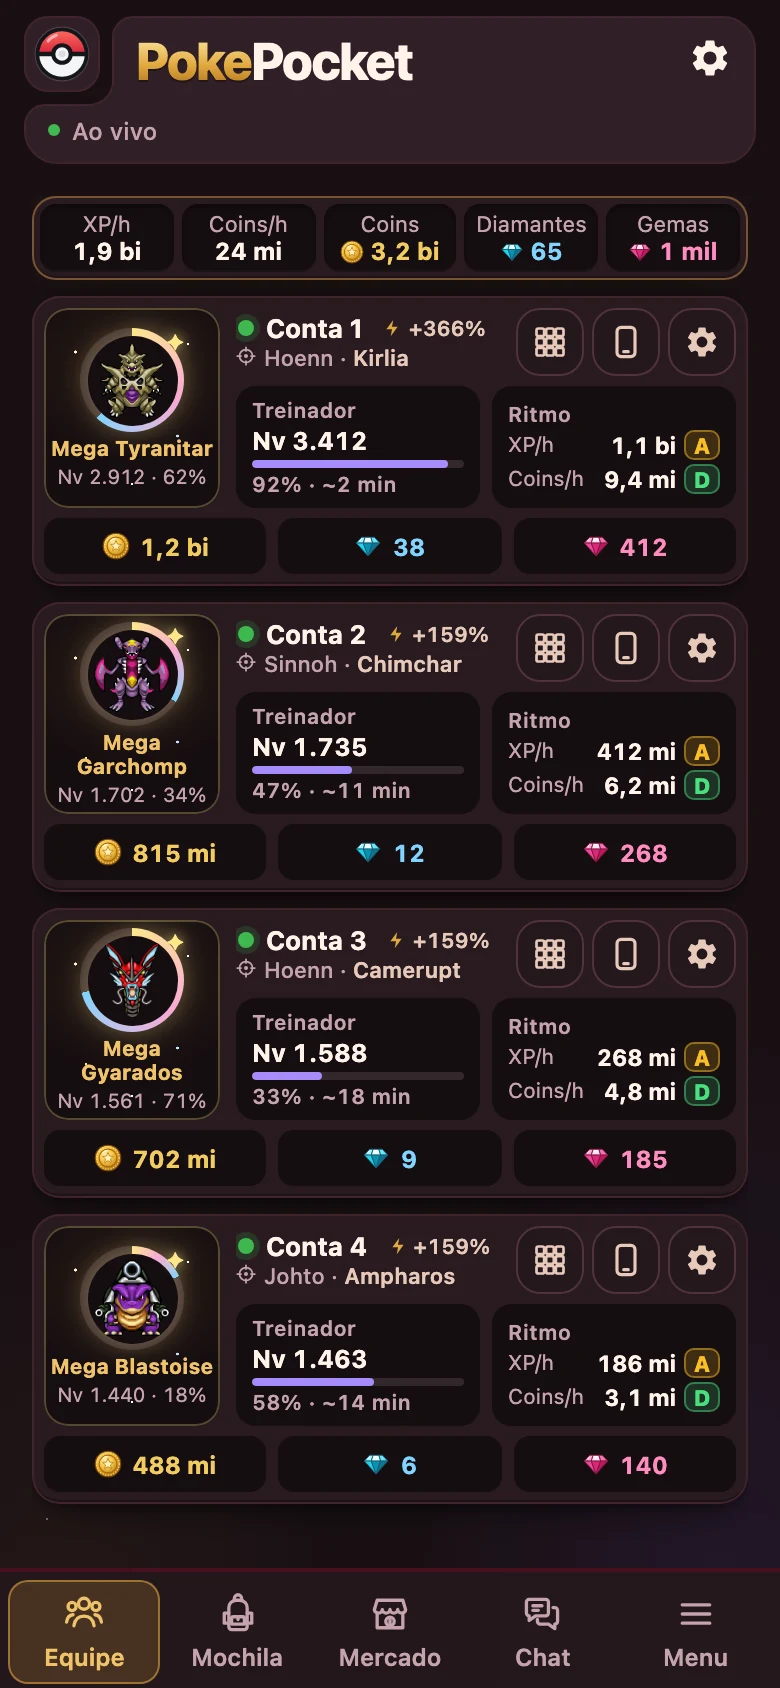
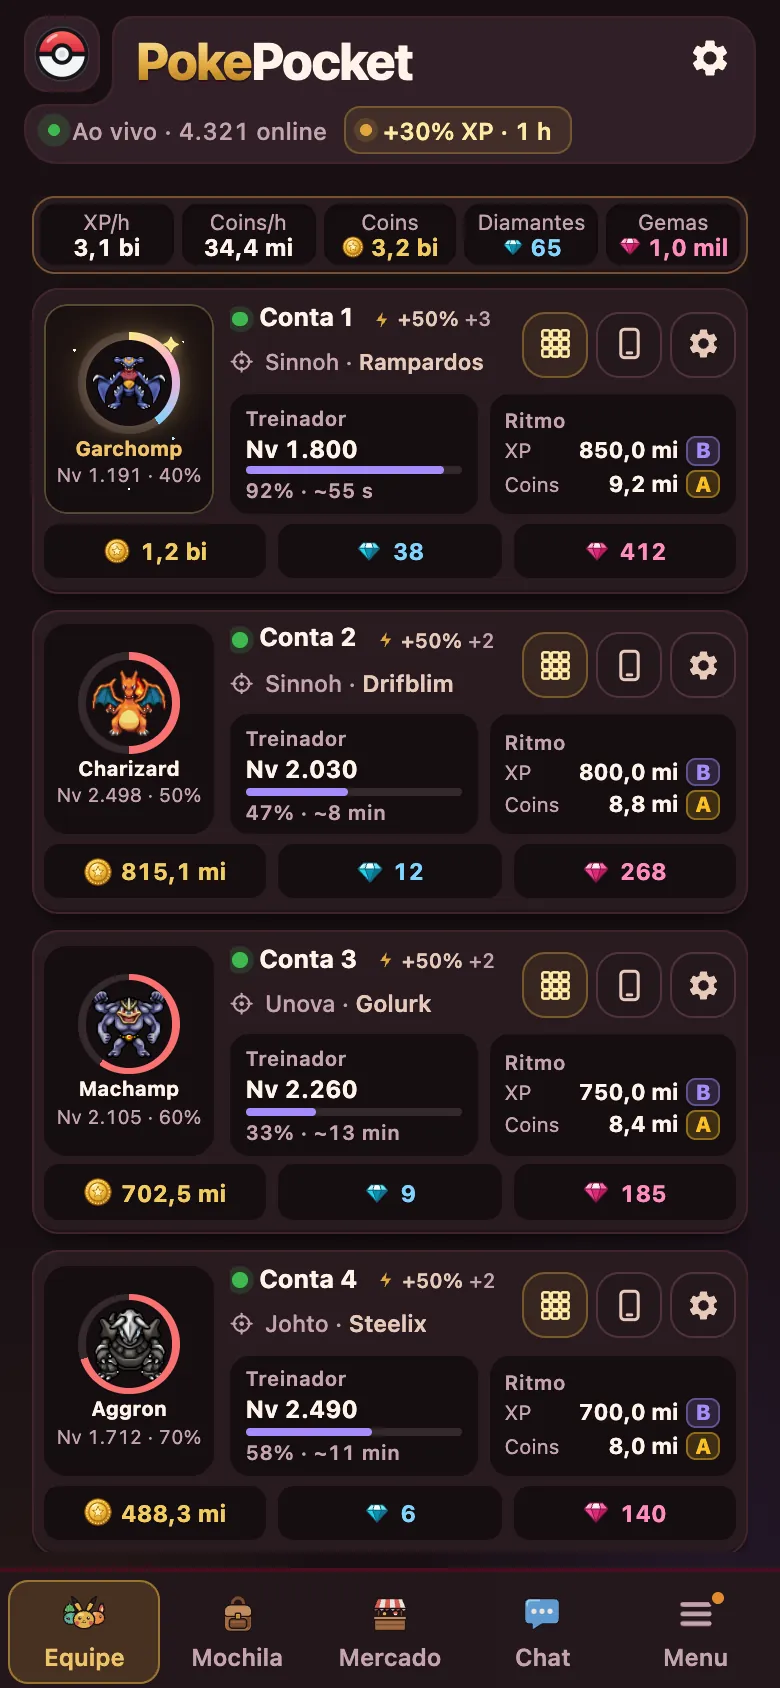
feat(site): prints da interface 1.0.6, card Treino no lugar do Ritmo e secao No celular sem o video

diff --git a/index.html b/index.html
@@ -328,8 +328,6 @@
     .cel-regras { list-style: none; display: grid; grid-template-columns: repeat(2, minmax(0, 1fr)); gap: 10px; }
     .cel-regras li { display: flex; align-items: center; gap: 10px; padding: 12px 14px; border-radius: 14px; font-weight: 800; font-size: 15px; color: var(--tinta); background: rgba(74, 222, 128, 0.07); border: 1px solid rgba(74, 222, 128, 0.22); }
     .cel-regras li::before { content: ""; flex: none; width: 8px; height: 8px; border-radius: 50%; background: var(--verde); box-shadow: 0 0 10px var(--verde); }
-    .cel-video { max-width: 860px; }
-    .cel-video video { aspect-ratio: 16 / 9; object-fit: contain; }
     .todas { margin-top: 16px; text-align: center; font-weight: 800; font-size: 15px; }
     .todas a { color: var(--suave); }
     .auto4 { grid-template-columns: repeat(3, minmax(0, 1fr)); }
@@ -473,9 +471,6 @@
             </ul>
           </div>
         </div>
-        <div class="tela cel-video revela">
-          <video src="assets/pokepocket-celular.mp4" poster="assets/celular-capa.jpg" controls playsinline muted preload="metadata"></video>
-        </div>
       </div>
     </section>
 
@@ -486,11 +481,11 @@
           <h2>Principais recursos</h2>
         </div>
         <div class="auto4">
+          <div class="auto revela"><img src="assets/prints/treino.webp" alt="Treino com casas por bônus de XP e fila do Exp. Share" loading="lazy" width="1600" height="1000" /><div><h3>Treino</h3><p>Casas por <b>bônus de XP</b> e fila do <b>Exp. Share</b> sozinha.</p></div></div>
           <div class="auto revela"><img src="assets/prints/equipe.webp" alt="Equipe com as 4 contas, nível, XP por hora e saldo" loading="lazy" width="1600" height="1000" /><div><h3>Equipe</h3><p>As <b>4 contas</b> num painel: nível, XP/h, Coins/h e saldo ao vivo.</p></div></div>
           <div class="auto revela"><img src="assets/prints/prey.webp" alt="Prey com região recomendada e cartela" loading="lazy" width="1600" height="1000" /><div><h3>Prey</h3><p>Recomenda a <b>região</b> e diz <b>o que girar</b>.</p></div></div>
           <div class="auto revela"><img src="assets/prints/mercado.webp" alt="Mercado com desconto e Score PvP" loading="lazy" width="1600" height="1000" /><div><h3>Mercado</h3><p><b>Desconto</b> e <b>Score PvP</b> por anúncio. Ordem de compra e compra manual.</p></div></div>
           <div class="auto revela"><img src="assets/prints/ficha.webp" alt="Ficha do pokémon com Score PvP" loading="lazy" width="1600" height="1000" /><div><h3>Ficha</h3><p><b>Score PvP</b>, efetividade, evolução e <b>preço sugerido</b>.</p></div></div>
-          <div class="auto revela"><img src="assets/prints/ritmo.webp" alt="Ritmo da conta com notas por área" loading="lazy" width="1600" height="1000" /><div><h3>Ritmo da conta</h3><p>Nota de <b>S a D</b> em cada área da conta.</p></div></div>
           <div class="auto revela"><img src="assets/prints/ganhos.webp" alt="Ganhos por hora e por conta" loading="lazy" width="1600" height="1000" /><div><h3>Ganhos</h3><p>XP, Coins, compras e vendas por hora.</p></div></div>
         </div>
         <div class="extras">
